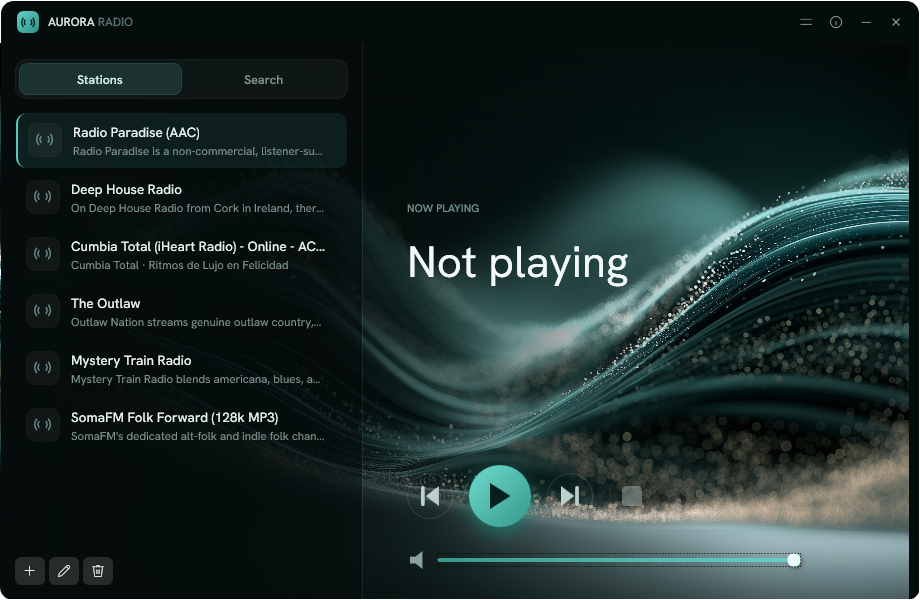
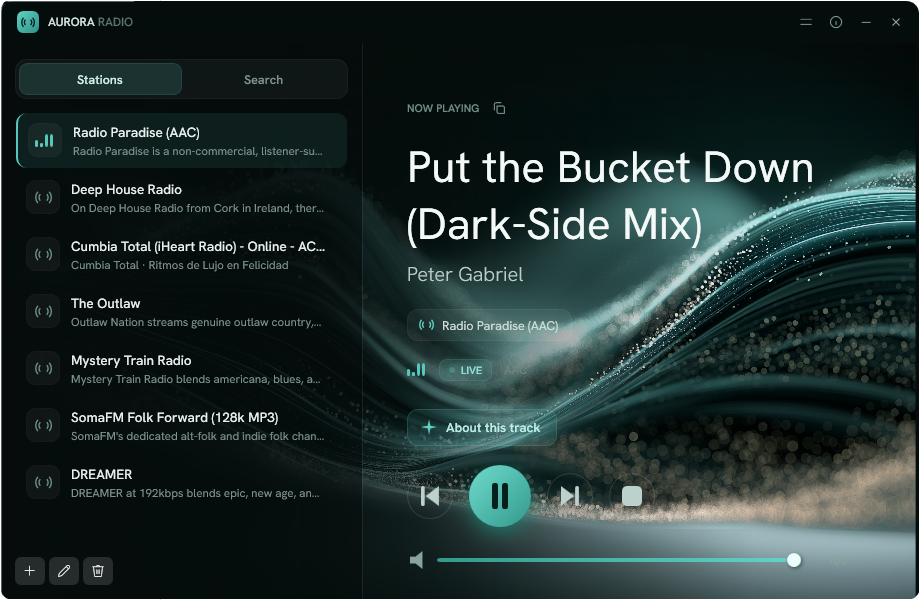
Fix 1px background bleed at the window's left edge
The ambient background image is right-aligned UniformToFill, so it's wider than its
container and overflows to the left. A WPF Grid doesn't clip children, so the overflow
was bounded only by the shell border's rounded clip at the window edge — letting ~1px of
the bright image sit under the 1px semi-transparent border stroke (#10FFFFFF, ~94%
transparent) and show through as a bright sliver.

Set ClipToBounds=True on the ambient grid so the image is bounded to the grid and can't
reach the border zone. (The earlier UseLayoutRounding/SnapsToDevicePixels pass treated a
symptom; this is the actual cause.)

diff --git a/Views/MainWindow.xaml b/Views/MainWindow.xaml
@@ -146,8 +146,11 @@
 
             <!-- ===== Body (Row 1): existing background + content (reworked in R3-R5). ===== -->
             <Grid Grid.Row="1">
-        <!-- ===== 0. Ambient wave background (spans the whole body, behind everything) ===== -->
-        <Grid Panel.ZIndex="0">
+        <!-- ===== 0. Ambient wave background (spans the whole body, behind everything) =====
+             ClipToBounds stops the right-aligned UniformToFill image (which is wider than the
+             grid and overflows left) from reaching the 1px shell border and bleeding through
+             its semi-transparent stroke at the window's left edge. -->
+        <Grid Panel.ZIndex="0" ClipToBounds="True">
             <Rectangle Fill="{StaticResource WindowBg}"/>
             <Image Source="/Assets/player-bg.png" Stretch="UniformToFill" HorizontalAlignment="Right"
                    RenderTransformOrigin="0.5,0.5">
